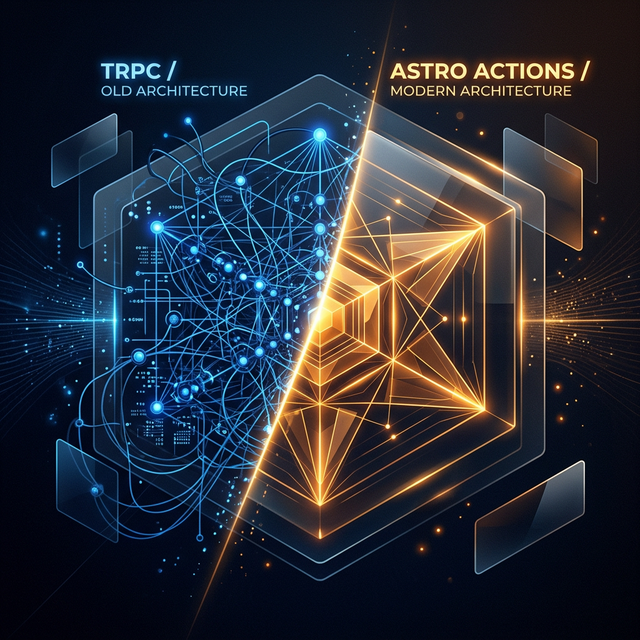
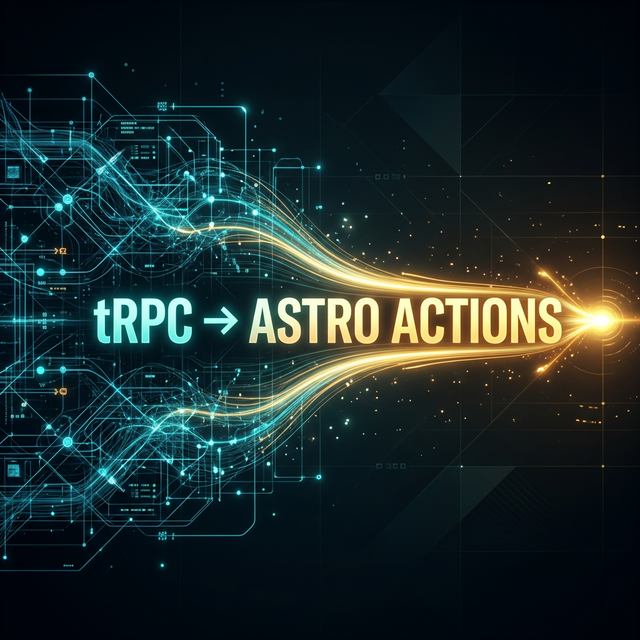
feat: add 'JavaScript Fatigue' and 'Tooling Evolution' articles with project narratives and infographics

diff --git a/src/layouts/shortcodes/ThoughtProcess.tsx b/src/layouts/shortcodes/ThoughtProcess.tsx
@@ -1,0 +1,111 @@
+import React, { useState } from "react";
+
+export const ThoughtBlock = ({ children }: { children: React.ReactNode }) => {
+  return (
+    <div className="not-prose my-8 overflow-hidden rounded-xl border border-stone-800/40 bg-[#1a1a1a] font-sans text-[15px] text-stone-300 antialiased shadow-2xl">
+      <div className="flex flex-col">{children}</div>
+    </div>
+  );
+};
+
+export const ThoughtLog = ({
+  title,
+  children,
+  defaultOpen = false,
+}: {
+  title: string;
+  children: React.ReactNode;
+  defaultOpen?: boolean;
+}) => {
+  const [open, setOpen] = useState(defaultOpen);
+
+  return (
+    <div className="group border-b border-stone-800/30 last:border-b-0">
+      <button
+        className="flex w-full cursor-pointer select-none items-center gap-2 px-4 py-3 text-left transition-colors hover:bg-white/[0.02]"
+        onClick={() => setOpen(!open)}
+      >
+        <div className="flex h-5 w-5 items-center justify-center text-stone-500">
+          <svg
+            xmlns="http://www.w3.org/2000/svg"
+            viewBox="0 0 24 24"
+            fill="none"
+            stroke="currentColor"
+            strokeWidth="2.5"
+            strokeLinecap="round"
+            strokeLinejoin="round"
+            className={`h-3.5 w-3.5 transition-transform duration-300 ${open ? "rotate-0" : "-rotate-90"}`}
+          >
+            <polyline points="6 9 12 15 18 9"></polyline>
+          </svg>
+        </div>
+        <span className="text-[14px] font-medium text-stone-400 transition-colors group-hover:text-stone-300">
+          {title}
+        </span>
+      </button>
+      {open && (
+        <div className="custom-scrollbar max-h-[600px] space-y-8 overflow-y-auto px-11 pb-8 pt-2">
+          {children}
+        </div>
+      )}
+      <style jsx>{`
+        .custom-scrollbar::-webkit-scrollbar {
+          width: 5px;
+        }
+        .custom-scrollbar::-webkit-scrollbar-track {
+          background: transparent;
+        }
+        .custom-scrollbar::-webkit-scrollbar-thumb {
+          background: #333;
+          border-radius: 10px;
+        }
+        .custom-scrollbar::-webkit-scrollbar-thumb:hover {
+          background: #444;
+        }
+      `}</style>
+    </div>
+  );
+};
+
+export const AnalyzedLog = ({ path }: { path: string }) => {
+  return (
+    <div className="group flex items-center gap-3 border-b border-stone-800/30 px-5 py-3 text-left text-stone-300 transition-all last:border-b-0 hover:bg-white/[0.03]">
+      <div className="h-4 w-4 shrink-0 text-stone-500">
+        <svg
+          xmlns="http://www.w3.org/2000/svg"
+          viewBox="0 0 24 24"
+          fill="none"
+          stroke="currentColor"
+          strokeWidth="2"
+          strokeLinecap="round"
+          strokeLinejoin="round"
+        >
+          <path d="M4 20h16a2 2 0 0 0 2-2V8a2 2 0 0 0-2-2h-7.93a2 2 0 0 1-1.66-.9l-.82-1.2h-0A2 2 0 0 0 3.93 3H4a2 2 0 0 0-2 2v13c0 1.1.9 2 2 2Z"></path>
+        </svg>
+      </div>
+      <div className="font-sans text-[13px] text-stone-500 transition-colors group-hover:text-stone-400">
+        Analyzed{" "}
+        <span className="font-mono text-[11px] italic opacity-70">{path}</span>
+      </div>
+    </div>
+  );
+};
+
+export const ThoughtStep = ({
+  title,
+  children,
+}: {
+  title: string;
+  children: React.ReactNode;
+}) => {
+  return (
+    <div className="animate-in fade-in slide-in-from-top-1 duration-500">
+      <h4 className="!mb-0 !mt-3 text-[16px] font-bold leading-tight tracking-tight text-stone-200">
+        {title}
+      </h4>
+      <div className="m-0 text-[15px] font-normal leading-[1.6] text-stone-400">
+        {children}
+      </div>
+    </div>
+  );
+};

diff --git a/src/content/config.ts b/src/content/config.ts
@@ -5,7 +5,7 @@ import { defineCollection, z } from "astro:content";
 const postsCollection = defineCollection({
   loader: glob({
     base: "./content/posts", // Submodule directory
-    pattern: "**/*.md",
+    pattern: "**/*.{md,mdx}",
   }),
   schema: z
     .object({
@@ -36,7 +36,7 @@ const postsCollection = defineCollection({
 
 // Templates collection - local templates in src/content/posts
 const templatesCollection = defineCollection({
-  loader: glob({ base: "./src/content/templates", pattern: "**/*.md" }),
+  loader: glob({ base: "./src/content/templates", pattern: "**/*.{md,mdx}" }),
   schema: z
     .object({
       author: z.string().optional(),
@@ -66,7 +66,7 @@ const templatesCollection = defineCollection({
 
 // Author collection schema
 const authorsCollection = defineCollection({
-  loader: glob({ base: "./src/content/authors", pattern: "**/*.md" }),
+  loader: glob({ base: "./src/content/authors", pattern: "**/*.{md,mdx}" }),
   schema: z.object({
     description: z.string().optional(),
     draft: z.boolean().optional(),
@@ -86,7 +86,7 @@ const authorsCollection = defineCollection({
 
 // Pages collection schema
 const pagesCollection = defineCollection({
-  loader: glob({ base: "./src/content/pages", pattern: "**/*.md" }),
+  loader: glob({ base: "./src/content/pages", pattern: "**/*.{md,mdx}" }),
   schema: z.object({
     description: z.string().optional(),
     draft: z.boolean().optional(),
@@ -100,7 +100,7 @@ const pagesCollection = defineCollection({
 
 // About collection schema
 const aboutCollection = defineCollection({
-  loader: glob({ base: "./src/content/about", pattern: "**/*.md" }),
+  loader: glob({ base: "./src/content/about", pattern: "**/*.{md,mdx}" }),
   schema: z.object({
     description: z.string().optional(),
     draft: z.boolean().optional(),

diff --git a/src/pages/search.json.ts b/src/pages/search.json.ts
@@ -6,7 +6,7 @@ export async function GET() {
   const searchData = posts.map((post: any) => ({
     categories: post.data.categories || [],
     description: post.data.description || "",
-    slug: post.id,
+    slug: post.id.replace(/\.mdx?$/, ""),
     tags: post.data.tags || [],
     title: post.data.title,
   }));
